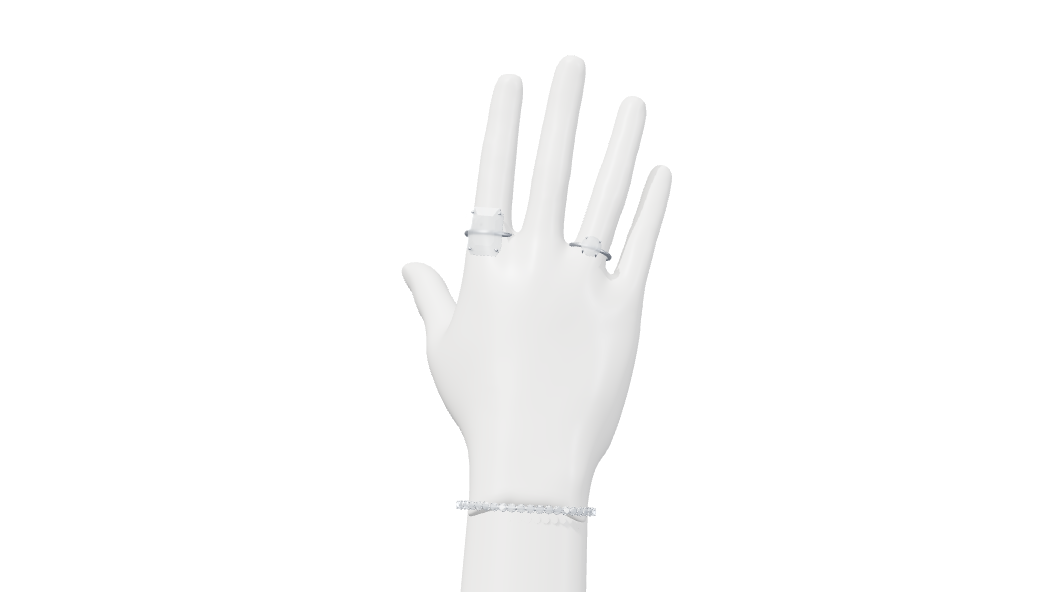
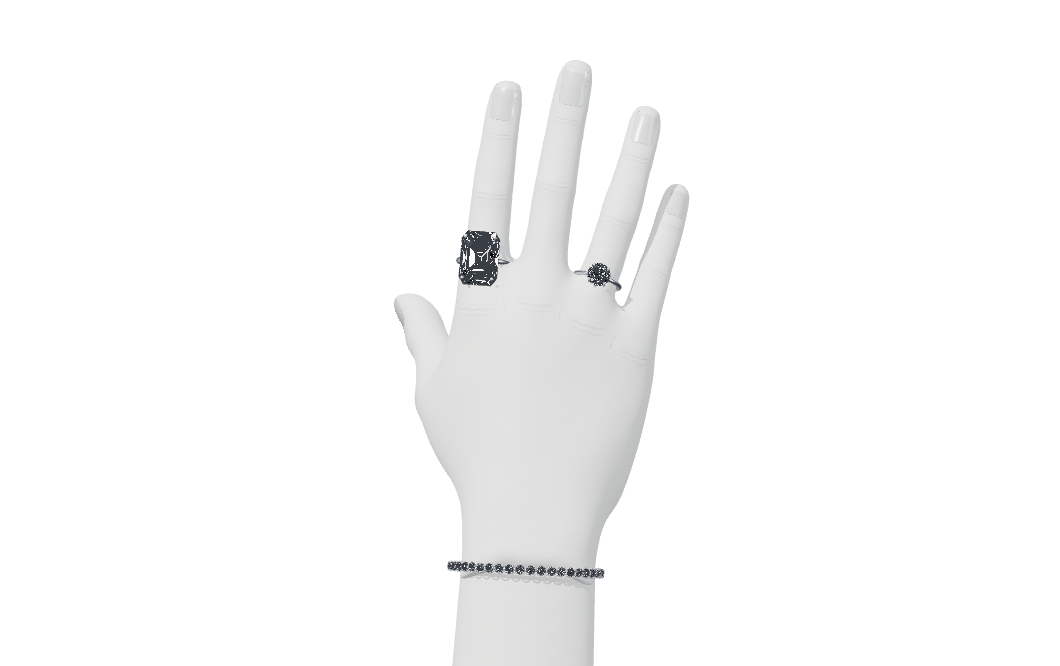
checkpoint before testing_agent_full_stack
Emergent-Commit-Key: 25b5694b8b795a00d3fec91d5c1eadf25e877570e0ba3959d1450f7f794d9ba8

diff --git a/frontend/src/three/handAnatomy.js b/frontend/src/three/handAnatomy.js
@@ -1,4 +1,5 @@
 import * as THREE from "three";
+import { MeshBVH, acceleratedRaycast } from "three-mesh-bvh";
 
 const FINGERS = ["index", "middle", "ring", "pinky"];
 const NAIL = new THREE.MeshPhysicalMaterial({
@@ -60,6 +61,7 @@ function sculptKnuckles(mesh, frames) {
 // A short, rounded-square natural nail. Surface samples fit each unique fingertip.
 function fitNail(mesh, bone, width, length, start) {
     const ray = new THREE.Raycaster();
+    ray.firstHitOnly = true;
     const direction = new THREE.Vector3(0, -1, 0).transformDirection(bone.matrixWorld);
     const surface = (u, v, lift = 0) => {
         const corner = Math.pow(Math.abs(v * 2 - 1), 8);
@@ -107,7 +109,12 @@ export function addHandAnatomy(scene) {
     const frames = jointFrames(scene);
     meshes.forEach((mesh) => sculptKnuckles(mesh, frames));
     scene.updateMatrixWorld(true);
-    const mesh = meshes[0];
+    // Bind-pose surface sampling needs no skinning. A one-time BVH avoids millions
+    // of CPU skin transforms while fitting the five nails on mobile/cold loads.
+    const mesh = new THREE.Mesh(meshes[0].geometry, meshes[0].material);
+    mesh.matrixWorld.copy(meshes[0].matrixWorld);
+    mesh.geometry.boundsTree = new MeshBVH(mesh.geometry);
+    mesh.raycast = acceleratedRaycast;
     [
         ["index-finger", 0.009, 0.0135, 0.006],
         ["middle-finger", 0.0095, 0.014, 0.006],
